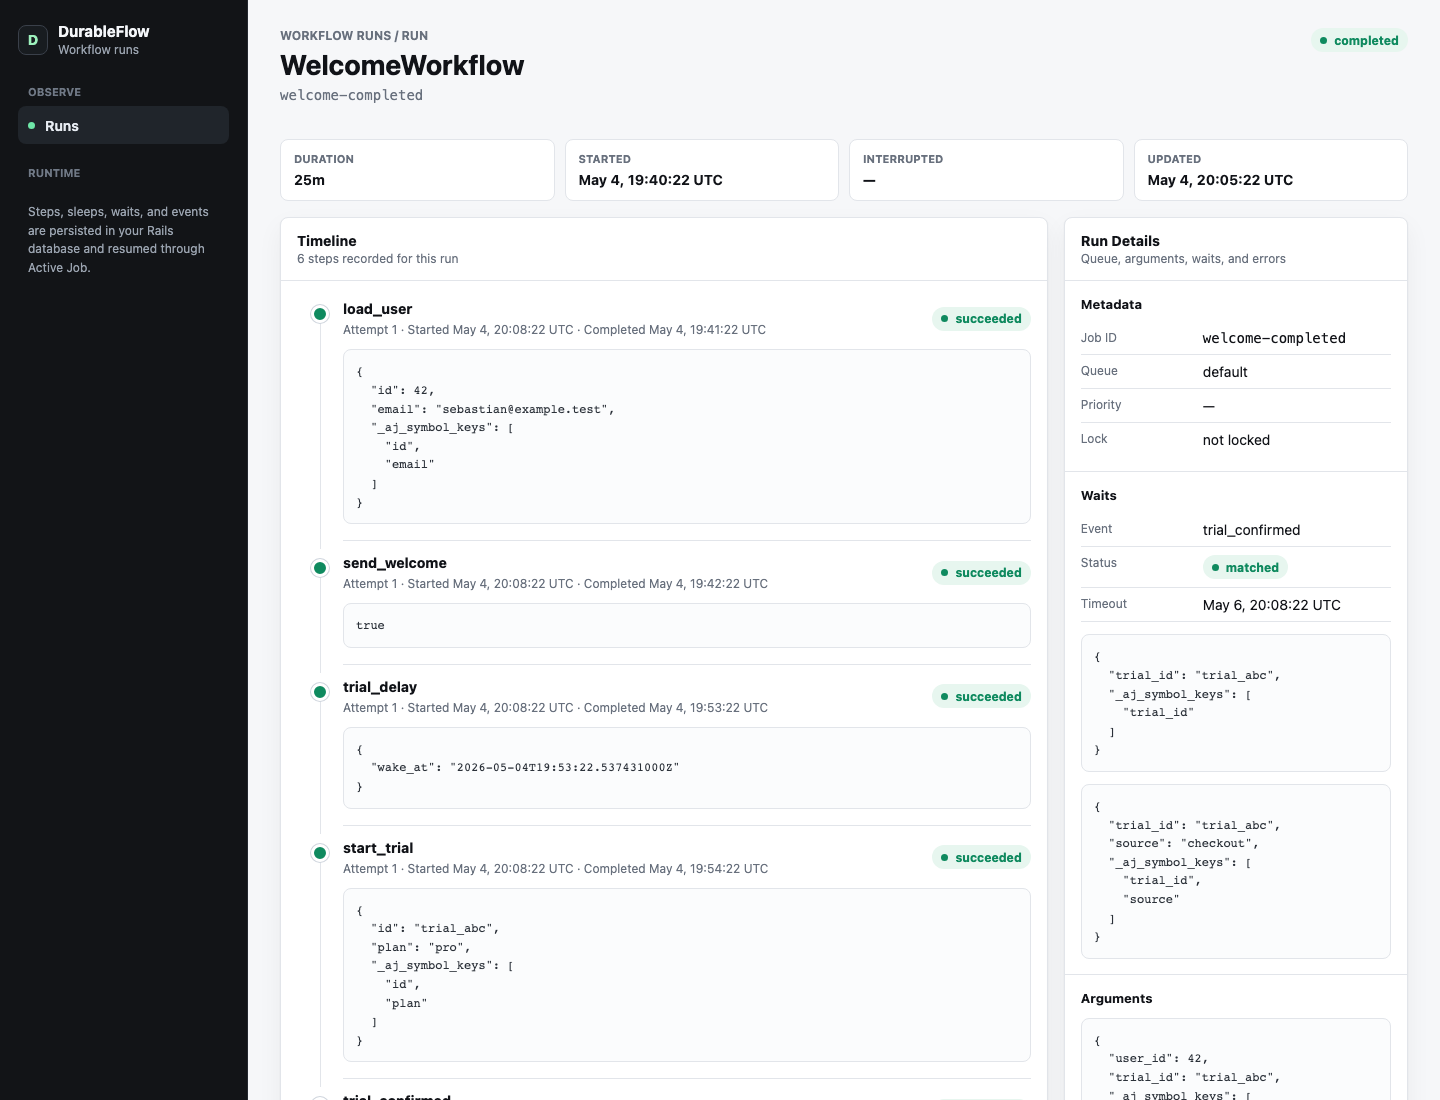
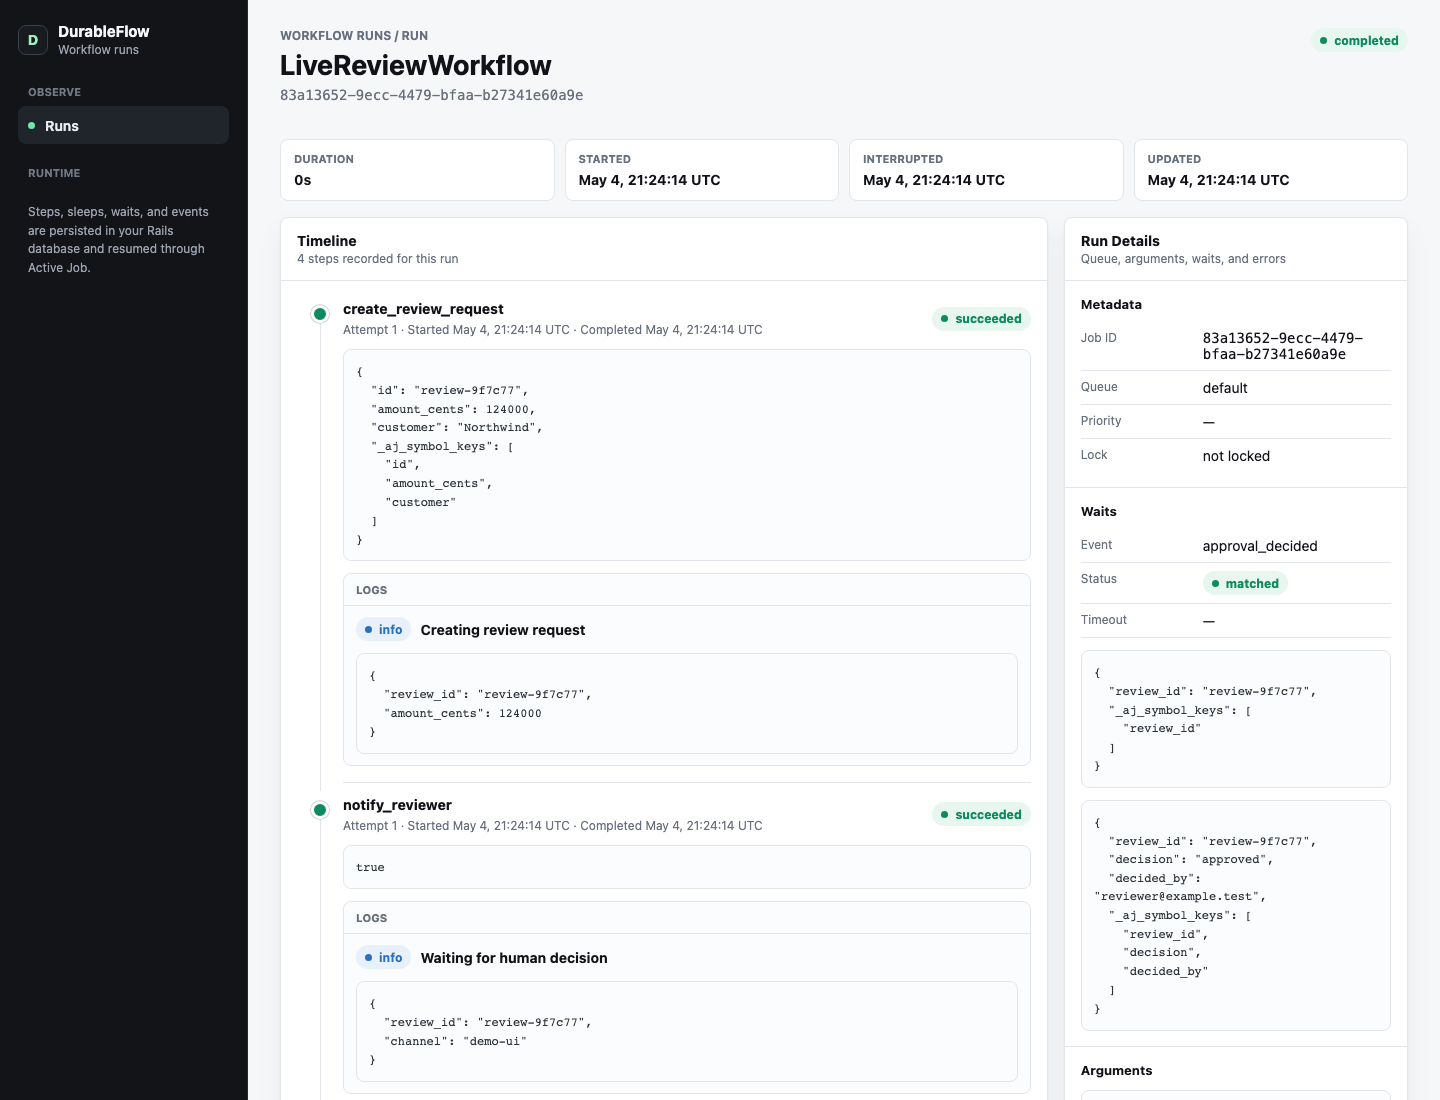
Refresh README docs

diff --git a/README.md b/README.md
@@ -117,7 +117,7 @@ The repo includes a small live Rails demo app at `examples/live_demo`.
 mise exec ruby@3.4 -- bundle exec ruby examples/live_demo/server.rb
 ```
 
-Open `http://127.0.0.1:4568/live`, start a review workflow, then approve or reject it. The page updates from `DurableFlow.live_broadcaster` using Server-Sent Events and links to the mounted engine UI at `/durable_flow`.
+Open `http://127.0.0.1:4568/live`, start one or more review workflows, then approve or reject the latest waiting run. The page updates from `DurableFlow.live_broadcaster` using Server-Sent Events and links to the mounted engine UI at `/durable_flow`. Use **Reset demo** to clear the local demo database.
 
 ## Status
 

diff --git a/examples/live_demo/README.md b/examples/live_demo/README.md
@@ -18,7 +18,9 @@ http://127.0.0.1:4568/live
 
 The demo workflow creates a review request, waits for a human approval event,
 then applies the decision. The page updates live from `DurableFlow.live_broadcaster`
-and also links to the mounted engine UI at `/durable_flow`.
+and also links to the mounted engine UI at `/durable_flow`. Start can create
+multiple runs so the engine UI shows run history; use **Reset demo** to clear
+the local demo database.
 
 The local SQLite database is written to `examples/live_demo/db/live.sqlite3` and
 is ignored by git.
